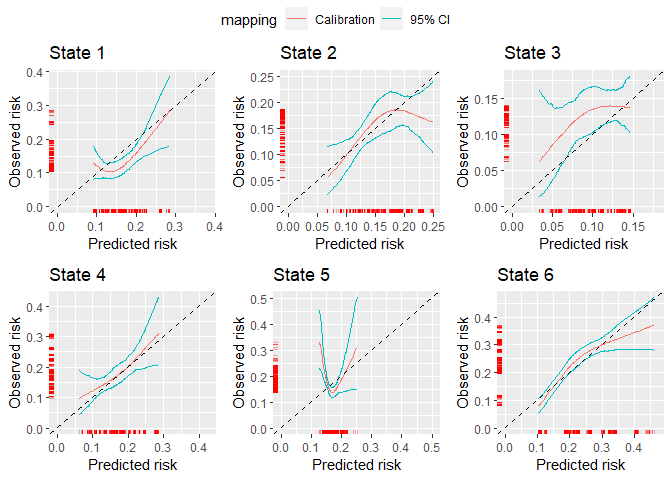
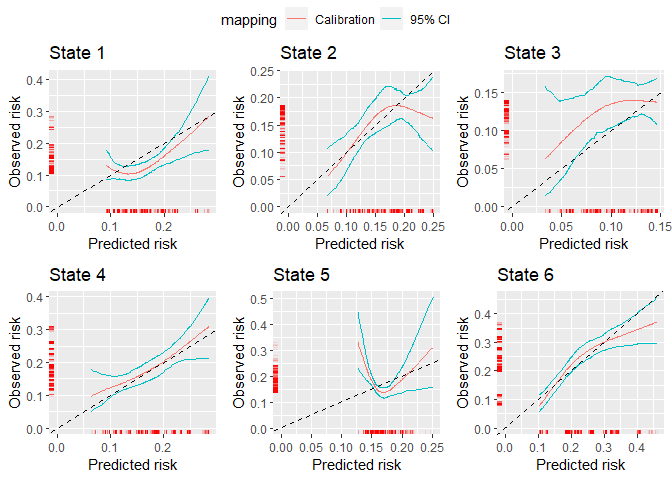
update readme.md

diff --git a/README.md b/README.md
@@ -10,9 +10,9 @@
 coverage](https://codecov.io/gh/alexpate30/calibmsm/branch/master/graph/badge.svg)](https://app.codecov.io/gh/alexpate30/calibmsm/?branch=master)
 <!-- badges: end -->
 
-The goal of calibmsm is to provide a set of tools for producing
-calibration plots for validating an existing (i.e. previously developed)
-multistate model.
+The goal of **calibmsm** is to provide a set of tools for estimating
+calibration plots when validating an existing (i.e. previously
+developed) multistate model.
 
 ## Installation
 
@@ -28,13 +28,18 @@ devtools::install_github("alexpate30/calibmsm")
 
 This is a basic example which shows you how to assess the calibration of
 the transition probabilities at 5 years follow up for individuals out of
-state `j` at time `s`. The predicted transition probabilities are stored
-in `tps0`, the individuals data are stored in `ebmtcal`, and the data is
-`msdata` format are stored in `msebmtcal`. Calibration curves are
-estimated using `calc_calib_blr`. Inverse probability of censoring
-weights are calculated based on variables year, age, prophylaxis and
-donor gender match. The calibration curves are estimated using
-restricted cubic splines. A 95% confidence interval is calculated using
+state `j = 1` at time `s = 0` using the BLR-IPCW approach. Please see
+the *overview* vignette for examples of how to assess calibration using
+the pseudo-value and MLR-IPCW approaches, as well as details of the
+methodology.
+
+The predicted transition probabilities are stored in `tps0`, the
+individuals data are stored in `ebmtcal`, and the data in `msdata`
+format are stored in `msebmtcal`. Calibration curves are estimated using
+`calib_blr`. Inverse probability of censoring weights are calculated
+based on variables `year`, `age`, `prophylaxis` and donor gender
+`match`. The calibration curves are estimated using restricted cubic
+splines with 3 knots. A 95% confidence interval is calculated using
 bootstrapping with 200 bootstrap replicates.
 
 ``` r
@@ -46,11 +51,11 @@ tp.pred <- dplyr::select(dplyr::filter(tps0, j == 1), any_of(paste("pstate", 1:6
 
 ## Calculate observed event probabilities
 dat.calib.blr <-
-  calc_calib_blr(data.mstate = msebmtcal,
+  calib_blr(data.mstate = msebmtcal,
                  data.raw = ebmtcal,
                  j=1,
                  s=0,
-                 t.eval = 1826,
+                 t = 1826,
                  tp.pred = tp.pred,
                  curve.type = "rcs",
                  rcs.nk = 3,
@@ -72,57 +77,57 @@ summary(dat.calib.blr)
 #> 
 #> $state1
 #>    id       pred       obs  obs.lower obs.upper
-#> 2   2 0.11401890 0.1095897 0.08523354 0.1377938
-#> 4   4 0.13838778 0.1036308 0.08431507 0.1305613
-#> 5   5 0.12332255 0.1051035 0.08515655 0.1283241
-#> 7   7 0.09737975 0.1236322 0.08395369 0.1640331
-#> 10 10 0.11371889 0.1097779 0.08511766 0.1382789
-#> 13 13 0.11385388 0.1096929 0.08516975 0.1380599
+#> 2   2 0.11401890 0.1095897 0.08703950 0.1330602
+#> 4   4 0.13838778 0.1036308 0.08411539 0.1295935
+#> 5   5 0.12332255 0.1051035 0.08660209 0.1255479
+#> 7   7 0.09737975 0.1236322 0.08659520 0.1646331
+#> 10 10 0.11371889 0.1097779 0.08693480 0.1330902
+#> 13 13 0.11385388 0.1096929 0.08698056 0.1330767
 #> 
 #> $state2
 #>    id      pred       obs obs.lower obs.upper
-#> 2   2 0.2316569 0.1698031 0.1243572 0.2225723
-#> 4   4 0.1836189 0.1855591 0.1507925 0.2188455
-#> 5   5 0.1609740 0.1759804 0.1391210 0.2102321
-#> 7   7 0.2121470 0.1785688 0.1447495 0.2122745
-#> 10 10 0.2315632 0.1698443 0.1245111 0.2224791
-#> 13 13 0.2316571 0.1698030 0.1243568 0.2225726
+#> 2   2 0.2316569 0.1698031 0.1222017 0.2164306
+#> 4   4 0.1836189 0.1855591 0.1570207 0.2159471
+#> 5   5 0.1609740 0.1759804 0.1422548 0.2131183
+#> 7   7 0.2121470 0.1785688 0.1477755 0.2077604
+#> 10 10 0.2315632 0.1698443 0.1223028 0.2163150
+#> 13 13 0.2316571 0.1698030 0.1222014 0.2164310
 #> 
 #> $state3
 #>    id       pred        obs  obs.lower obs.upper
-#> 2   2 0.08442692 0.12485834 0.09431395 0.1569063
-#> 4   4 0.07579429 0.11666056 0.08460027 0.1451781
-#> 5   5 0.05508100 0.09189341 0.04519272 0.1367071
-#> 7   7 0.06154308 0.10011560 0.05905272 0.1372340
-#> 10 10 0.08440940 0.12484341 0.09430722 0.1568832
-#> 13 13 0.08257284 0.12323792 0.09363889 0.1543054
+#> 2   2 0.08442692 0.12485834 0.09437332 0.1597090
+#> 4   4 0.07579429 0.11666056 0.08301310 0.1505637
+#> 5   5 0.05508100 0.09189341 0.04566813 0.1410233
+#> 7   7 0.06154308 0.10011560 0.05940891 0.1429186
+#> 10 10 0.08440940 0.12484341 0.09433027 0.1596855
+#> 13 13 0.08257284 0.12323792 0.09000797 0.1571005
 #> 
 #> $state4
 #>    id      pred       obs obs.lower obs.upper
-#> 2   2 0.2328398 0.2427580 0.1930546 0.2863106
-#> 4   4 0.2179331 0.2243106 0.1883121 0.2584585
-#> 5   5 0.1828176 0.1851051 0.1550640 0.2170441
-#> 7   7 0.2206335 0.2275985 0.1914898 0.2624447
-#> 10 10 0.2326989 0.2425807 0.1929586 0.2859993
-#> 13 13 0.2326047 0.2424622 0.1928944 0.2857912
+#> 2   2 0.2328398 0.2427580 0.2054707 0.2794410
+#> 4   4 0.2179331 0.2243106 0.1941535 0.2550214
+#> 5   5 0.1828176 0.1851051 0.1524937 0.2141040
+#> 7   7 0.2206335 0.2275985 0.1961146 0.2594552
+#> 10 10 0.2326989 0.2425807 0.2052857 0.2790904
+#> 13 13 0.2326047 0.2424622 0.2051620 0.2788559
 #> 
 #> $state5
 #>    id      pred       obs obs.lower obs.upper
-#> 2   2 0.1481977 0.1909795 0.1654396 0.2182979
-#> 4   4 0.1538475 0.1654523 0.1484613 0.1830273
-#> 5   5 0.1425950 0.2215190 0.1829005 0.2663921
-#> 7   7 0.1441960 0.2123460 0.1775459 0.2495635
-#> 10 10 0.1488068 0.1879278 0.1636959 0.2139830
-#> 13 13 0.1505092 0.1797461 0.1588683 0.2021889
+#> 2   2 0.1481977 0.1909795 0.1682398 0.2143248
+#> 4   4 0.1538475 0.1654523 0.1487585 0.1810679
+#> 5   5 0.1425950 0.2215190 0.1826505 0.2576237
+#> 7   7 0.1441960 0.2123460 0.1801994 0.2437539
+#> 10 10 0.1488068 0.1879278 0.1669285 0.2101831
+#> 13 13 0.1505092 0.1797461 0.1609318 0.1994089
 #> 
 #> $state6
 #>    id      pred       obs obs.lower obs.upper
-#> 2   2 0.1888598 0.2069354 0.1856979 0.2330498
-#> 4   4 0.2304185 0.2542212 0.2292881 0.2813828
-#> 5   5 0.3352099 0.3163102 0.2810037 0.3582892
-#> 7   7 0.2641006 0.2800368 0.2594873 0.3064739
-#> 10 10 0.1888028 0.2068586 0.1856305 0.2329424
-#> 13 13 0.1888022 0.2068578 0.1856298 0.2329413
+#> 2   2 0.1888598 0.2069354 0.1825429 0.2306826
+#> 4   4 0.2304185 0.2542212 0.2275171 0.2858038
+#> 5   5 0.3352099 0.3163102 0.2839859 0.3535487
+#> 7   7 0.2641006 0.2800368 0.2505922 0.3079770
+#> 10 10 0.1888028 0.2068586 0.1824780 0.2305737
+#> 13 13 0.1888022 0.2068578 0.1824774 0.2305727
 
 ## Plot calibration plots
 plot(dat.calib.blr, combine = TRUE, nrow = 2, ncol = 3)
@@ -130,95 +135,7 @@ plot(dat.calib.blr, combine = TRUE, nrow = 2, ncol = 3)
 
 <img src="man/figures/README-example-1.png" width="100%" />
 
-Calibration scatter plots can also be estimated using `calc_calib_mlr`.
-
-``` r
-## Calculate observed event probabilities
-dat.calib.mlr <-
-  calc_calib_mlr(data.mstate = msebmtcal,
-                 data.raw = ebmtcal,
-                 j=1,
-                 s=0,
-                 t.eval = 1826,
-                 tp.pred = tp.pred,
-                 w.covs = c("year", "agecl", "proph", "match"))
-
-## Produce summary
-summary(dat.calib.mlr)
-#> There were non-zero predicted transition probabilities into states  1,2,3,4,5,6
-#> 
-#> Calibration was assessed at time 1826 and calibration was assessed in a landmarked cohort of individuals in state j = 1 at time s = 0
-#> 
-#> The estimated calibration scatter plots are stored in list element `plotdata`:
-#> 
-#> $state1
-#>   id       pred        obs
-#> 1  2 0.11401890 0.09197312
-#> 2  4 0.13838778 0.09765456
-#> 3  5 0.12332255 0.05055278
-#> 4  7 0.09737975 0.10509072
-#> 5 10 0.11371889 0.09474050
-#> 6 13 0.11385388 0.09760555
-#> 
-#> $state2
-#>   id      pred        obs
-#> 1  2 0.2316569 0.09628315
-#> 2  4 0.1836189 0.16086862
-#> 3  5 0.1609740 0.08120535
-#> 4  7 0.2121470 0.10759914
-#> 5 10 0.2315632 0.09813159
-#> 6 13 0.2316571 0.10453033
-#> 
-#> $state3
-#>   id       pred        obs
-#> 1  2 0.08442692 0.17888790
-#> 2  4 0.07579429 0.13870298
-#> 3  5 0.05508100 0.07723274
-#> 4  7 0.06154308 0.14719397
-#> 5 10 0.08440940 0.18112318
-#> 6 13 0.08257284 0.18206659
-#> 
-#> $state4
-#>   id      pred       obs
-#> 1  2 0.2328398 0.2170579
-#> 2  4 0.2179331 0.1712690
-#> 3  5 0.1828176 0.3509679
-#> 4  7 0.2206335 0.1452834
-#> 5 10 0.2326989 0.2114548
-#> 6 13 0.2326047 0.2086145
-#> 
-#> $state5
-#>   id      pred       obs
-#> 1  2 0.1481977 0.1871729
-#> 2  4 0.1538475 0.2017993
-#> 3  5 0.1425950 0.2297903
-#> 4  7 0.1441960 0.1500001
-#> 5 10 0.1488068 0.1815475
-#> 6 13 0.1505092 0.1686992
-#> 
-#> $state6
-#>   id      pred       obs
-#> 1  2 0.1888598 0.2286251
-#> 2  4 0.2304185 0.2297056
-#> 3  5 0.3352099 0.2102509
-#> 4  7 0.2641006 0.3448326
-#> 5 10 0.1888028 0.2330024
-#> 6 13 0.1888022 0.2384838
-
-## Plot calibration plots
-plot(dat.calib.mlr, combine = TRUE, nrow = 2, ncol = 3)
-```
-
-<img src="man/figures/README-unnamed-chunk-3-1.png" width="100%" />
-
 ## Getting help
 
 If you encounter a bug, please file an issue with a minimal reproducible
 example on [GitHub](https://github.com/alexpate30/calibmsm).
-
-NB TO DELETE - A USEFUL NOTE FOR NOW:: You’ll still need to render
-`README.Rmd` regularly, to keep `README.md` up-to-date.
-`devtools::build_readme()` is handy for this. You could also use GitHub
-Actions to re-render `README.Rmd` every time you push. An example
-workflow can be found here:
-<https://github.com/r-lib/actions/tree/v1/examples>.
